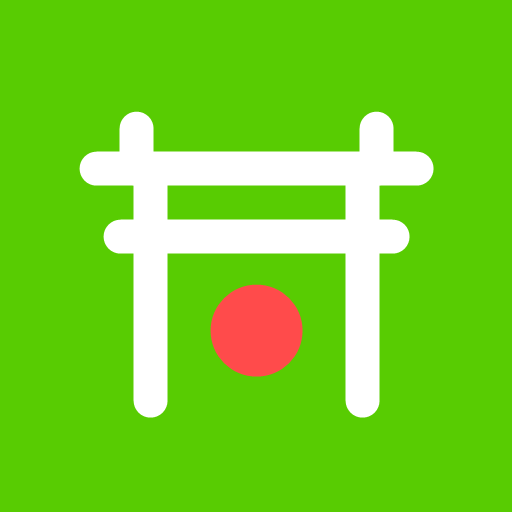
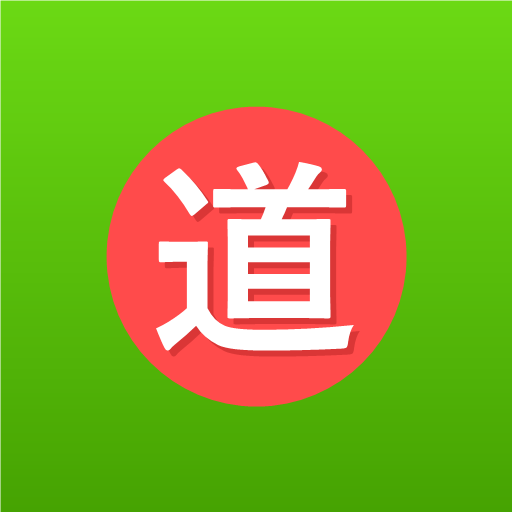
Ícone novo para iPad/iPhone e sincronização entre aparelhos via Gist do GitHub

diff --git a/js/app.js b/js/app.js
@@ -1,7 +1,7 @@
 // Michi 道 — app principal (sem dependências, funciona offline).
 (function () {
   'use strict';
-  const APP_VERSION = '1.2.0';
+  const APP_VERSION = '1.3.0';
   const $ = (s, r = document) => r.querySelector(s);
   const $$ = (s, r = document) => Array.from(r.querySelectorAll(s));
   const app = $('#app');
@@ -84,7 +84,7 @@
     S = Object.assign({}, JSON.parse(JSON.stringify(DEFAULT)), S || {});
     S.settings = Object.assign({}, DEFAULT.settings, S.settings || {});
   }
-  function save() { try { localStorage.setItem(STORE, JSON.stringify(S)); } catch (e) { toast('Não foi possível salvar o progresso neste navegador.'); } }
+  function save() { try { localStorage.setItem(STORE, JSON.stringify(S)); } catch (e) { toast('Não foi possível salvar o progresso neste navegador.'); } syncSoon(); }
 
   function addXP(n) {
     const t = todayKey(), y = todayKey(new Date(Date.now() - DAY));
@@ -97,10 +97,11 @@
   function srsData(it) { return [it.jp, it.kana, it.pt, it.em || '', it.isKana ? 1 : it.isKanji ? 2 : 0]; }
   function srsAdd(it, learned) {
     if (S.srs[it.key]) return;
-    S.srs[it.key] = { d: srsData(it), due: Date.now() + (learned ? DAY : 0), iv: learned ? 1 : 0, ef: 2.5, reps: learned ? 1 : 0, lapses: 0 };
+    S.srs[it.key] = { d: srsData(it), due: Date.now() + (learned ? DAY : 0), iv: learned ? 1 : 0, ef: 2.5, reps: learned ? 1 : 0, lapses: 0, t: Date.now() };
   }
   function srsGrade(key, ok) {
     const c = S.srs[key]; if (!c) return;
+    c.t = Date.now();
     if (ok) {
       c.reps++; c.iv = c.reps <= 1 ? 1 : c.reps === 2 ? 3 : Math.round(c.iv * c.ef);
       c.ef = Math.min(3, c.ef + 0.05); c.due = Date.now() + c.iv * DAY;
@@ -1100,6 +1101,7 @@
         <div class="setting"><span></span><button class="btn small blue" data-say="こんにちは。日本語の勉強、がんばりましょう！">🔊 Testar voz</button></div>
         ${jaVoices.length ? '' : `<div class="warn"><b>Nenhuma voz japonesa encontrada.</b> Para ouvir os áudios mesmo offline: <br>• <b>Windows</b>: Configurações → Hora e idioma → Fala → Adicionar vozes → Japonês.<br>• <b>Android</b>: Configurações → Idioma → Saída de texto para fala → Google → instalar dados de voz em japonês.<br>• <b>iPhone</b>: Ajustes → Acessibilidade → Conteúdo Falado → Vozes → Japonês.<br>No Chrome/Edge com internet, vozes online também funcionam.</div>`}
       </div>
+      ${syncCard()}
       <div class="card"><h3>💾 Seus dados</h3><p class="muted" style="margin-top:0">O progresso fica salvo neste aparelho e funciona offline. Faça backup para levar a outro celular/computador.</p>
         <div class="row"><button class="btn small" id="exp">Exportar backup</button><label class="btn small blue" style="cursor:pointer">Importar backup<input type="file" id="imp" accept=".json,application/json" hidden></label>
         <button class="btn small ghost" id="upd">Verificar atualização</button><button class="btn small ghost" id="inst" hidden>📲 Instalar app</button></div>
@@ -1120,7 +1122,8 @@
       f.text().then(t => { const d = JSON.parse(t); if (!d || typeof d.xp !== 'number' || !d.srs) throw 0; localStorage.setItem(STORE, JSON.stringify(d)); load(); applySettings(); updateTop(); toast('Backup importado!'); router(); })
         .catch(() => toast('Arquivo de backup inválido.'));
     };
-    $('#reset').onclick = () => { if (confirm('Apagar TODO o progresso? Isso não pode ser desfeito.') && confirm('Tem certeza? Exporte um backup antes, se quiser.')) { localStorage.removeItem(STORE); load(); save(); updateTop(); go('/'); location.reload(); } };
+    $('#reset').onclick = () => { if (confirm('Apagar TODO o progresso deste aparelho? Isso não pode ser desfeito.' + (sync ? ' Ele também será desconectado da sincronização (a cópia no GitHub continua lá).' : '')) && confirm('Tem certeza? Exporte um backup antes, se quiser.')) { syncOff(); localStorage.removeItem(STORE); load(); save(); updateTop(); go('/'); location.reload(); } };
+    bindSyncCard();
     $('#upd').onclick = checkUpdate;
     if (deferredInstall) { $('#inst').hidden = false; $('#inst').onclick = () => { deferredInstall.prompt(); deferredInstall = null; $('#inst').hidden = true; }; }
   });
@@ -1128,11 +1131,16 @@
   // ---------- Boas-vindas ----------
   function onboarding() {
     const starts = [['Do zero absoluto', 'Nunca estudei japonês', 0], ['Já sei hiragana e katakana', 'Começar pelos kanji e frases', LESSON.m0l8.index], ['Já tenho o básico (N5)', 'Começar pelo Módulo A2', LESSON.m2l1.index], ['Sou intermediário (N4)', 'Começar pelo Módulo B1', LESSON.m3l1.index]];
-    const el = document.createElement('div'); el.className = 'modal-back';
+    const el = document.createElement('div'); el.className = 'modal-back onb';
     el.innerHTML = `<div class="modal"><div class="center"><div style="font-size:60px">⛩</div><h2>ようこそ！ Bem-vindo(a) ao Michi</h2>
       <p class="muted">Seu caminho (道) do zero ao japonês avançado: fala, escuta, leitura e escrita. Tudo funciona offline e fica salvo no seu aparelho.</p></div>
-      <h3>Qual é o seu nível?</h3><div class="opt-list">${starts.map((s, i) => `<button class="list-link" data-s="${s[2]}"><span class="ic">${['🌱', 'あ', '🌸', '🎋'][i]}</span><span class="grow"><b>${s[0]}</b><small>${s[1]}</small></span></button>`).join('')}</div></div>`;
+      <h3>Qual é o seu nível?</h3><div class="opt-list">${starts.map((s, i) => `<button class="list-link" data-s="${s[2]}"><span class="ic">${['🌱', 'あ', '🌸', '🎋'][i]}</span><span class="grow"><b>${s[0]}</b><small>${s[1]}</small></span></button>`).join('')}
+      <button class="list-link" id="onb-sync"><span class="ic">🔄</span><span class="grow"><b>Já estudo em outro aparelho</b><small>Trazer meu progresso do PC/iPad</small></span></button></div></div>`;
     document.body.appendChild(el);
+    $('#onb-sync', el).onclick = e => {
+      e.stopPropagation(); el.remove(); go('/profile');
+      setTimeout(() => { const c = $('#sync-card'); if (c) { c.scrollIntoView({ behavior: 'smooth' }); const t = $('#sync-token'); if (t) t.focus({ preventScroll: true }); } }, 150);
+    };
     el.addEventListener('click', function pickStart(e) {
       const b = e.target.closest('[data-s]'); if (!b) return;
       el.removeEventListener('click', pickStart);
@@ -1178,8 +1186,137 @@
   window.addEventListener('online', () => toast('Conectado à internet.'));
   window.addEventListener('offline', () => toast('Modo offline: suas aulas continuam funcionando.'));
 
+  // ---------- Sincronização entre aparelhos (PC ⇄ iPad ⇄ celular) ----------
+  // O progresso vai para um Gist secreto na conta do GitHub do aluno. Cada aparelho guarda a última
+  // versão combinada (base) para saber o que mudou nele desde então e juntar sem perder nada.
+  const SYNC = 'michi.sync.v1', SYNC_FILE = 'michi-progresso.json', SYNC_DESC = 'Michi 道 — progresso (sincronização entre aparelhos)';
+  const LOCAL_KEYS = ['settings', 'noMicUntil']; // tema, voz e velocidade ficam em cada aparelho (as vozes do PC e do iPad são diferentes)
+  let sync = null, syncBase = null, syncBusy = false, syncDirty = false, syncTimer = 0;
+  try { sync = JSON.parse(localStorage.getItem(SYNC)); syncBase = JSON.parse(localStorage.getItem(SYNC + '.base')); } catch (e) {}
+  const same = (a, b) => JSON.stringify(a) === JSON.stringify(b);
+  function shared(s) { const o = Object.assign({}, s); LOCAL_KEYS.forEach(k => delete o[k]); return o; }
+  function saveSync() { try { if (sync) localStorage.setItem(SYNC, JSON.stringify(sync)); else localStorage.removeItem(SYNC); if (syncBase) localStorage.setItem(SYNC + '.base', JSON.stringify(syncBase)); else localStorage.removeItem(SYNC + '.base'); } catch (e) {} }
+  // Junta conquistas: o que foi concluído em qualquer aparelho continua concluído
+  function union(a, b) {
+    if (a == null) return b; if (b == null) return a;
+    if (typeof a === 'number' && typeof b === 'number') return Math.max(a, b);
+    if (typeof a !== 'object' || typeof b !== 'object' || Array.isArray(a) || Array.isArray(b)) return b || a;
+    const o = Object.assign({}, a); Object.keys(b).forEach(k => { o[k] = union(a[k], b[k]); }); return o;
+  }
+  function streakFrom(days, last) {
+    if (!last) return 0; let n = 0, d = new Date(last + 'T12:00:00');
+    while ((days[todayKey(d)] || 0) > 0) { n++; d = new Date(d.getTime() - DAY); }
+    return Math.max(n, 1);
+  }
+  function mergeState(L, R, B) {
+    R = Object.assign(JSON.parse(JSON.stringify(DEFAULT)), R);
+    const M = Object.assign({}, L, shared(R));
+    // XP e XP por dia: soma o que cada aparelho ganhou desde a última sincronização
+    const add = (l, r, b) => b == null ? Math.max(l || 0, r || 0) : (r || 0) + Math.max(0, (l || 0) - b);
+    M.xp = add(L.xp, R.xp, B && B.xp);
+    M.days = {};
+    Object.keys(Object.assign({}, L.days, R.days)).forEach(d => { M.days[d] = add(L.days[d], R.days[d], B ? (B.days || {})[d] || 0 : null); });
+    ['lessons', 'missions', 'culture', 'steps'].forEach(k => { M[k] = union(L[k], R[k]); });
+    // Revisões: vale a versão do cartão que mudou (ou a revisada por último)
+    M.srs = {};
+    const later = (l, r) => (l.t || 0) !== (r.t || 0) ? ((l.t || 0) > (r.t || 0) ? l : r) : (l.reps + l.lapses >= r.reps + r.lapses ? l : r);
+    Object.keys(Object.assign({}, L.srs, R.srs)).forEach(k => {
+      const l = L.srs[k], r = R.srs[k], b = B && B.srs && B.srs[k];
+      M.srs[k] = !l ? r : !r ? l : b && same(l, b) ? r : b && same(r, b) ? l : later(l, r);
+    });
+    const pick = k => B ? (same(L[k], B[k]) ? R[k] : L[k]) : (R.onboarded ? R[k] : L[k]);
+    M.goal = pick('goal'); M.startAt = pick('startAt');
+    M.onboarded = !!(L.onboarded || R.onboarded);
+    M.created = Math.min(L.created || Date.now(), R.created || Date.now());
+    M.lastDay = [L.lastDay, R.lastDay].filter(Boolean).sort().pop() || null;
+    M.streak = Math.max(streakFrom(M.days, M.lastDay), ...[L, R].filter(s => s.lastDay === M.lastDay).map(s => s.streak || 0));
+    return M;
+  }
+  async function ghApi(path, method, body) {
+    const r = await fetch('https://api.github.com' + path, { method: method || 'GET', cache: 'no-store', headers: { Authorization: 'Bearer ' + sync.token, Accept: 'application/vnd.github+json' }, body: body ? JSON.stringify(body) : undefined });
+    if (!r.ok) { const e = new Error('GitHub ' + r.status); e.status = r.status; throw e; }
+    return r.json();
+  }
+  function syncSoon() { if (!sync) return; syncDirty = true; clearTimeout(syncTimer); syncTimer = setTimeout(syncNow, 15000); }
+  async function syncNow(manual) {
+    if (!sync || syncBusy) return;
+    if (!navigator.onLine) { if (manual === true) toast('Sem internet: sincronizo quando a conexão voltar.'); return; }
+    if (document.body.classList.contains('in-session')) { syncSoon(); return; } // não mexe no progresso no meio de uma prática
+    syncBusy = true; syncDirty = false; clearTimeout(syncTimer);
+    const before = JSON.stringify(shared(S));
+    try {
+      if (!sync.gist) {
+        const list = await ghApi('/gists?per_page=100');
+        const found = list.find(g => g.files && g.files[SYNC_FILE]);
+        sync.gist = found ? found.id : (await ghApi('/gists', 'POST', { description: SYNC_DESC, public: false, files: { [SYNC_FILE]: { content: JSON.stringify(shared(S)) } } })).id;
+        saveSync();
+      }
+      const g = await ghApi('/gists/' + sync.gist), f = g.files && g.files[SYNC_FILE];
+      if (!sync) return;
+      const remote = f ? JSON.parse(f.truncated ? await (await fetch(f.raw_url, { cache: 'no-store' })).text() : f.content) : null;
+      if (remote) {
+        const M = mergeState(S, remote, syncBase);
+        Object.keys(M).forEach(k => { S[k] = M[k]; });
+        try { localStorage.setItem(STORE, JSON.stringify(S)); } catch (e) {}
+      }
+      const now = shared(S);
+      if (!remote || !same(now, remote)) await ghApi('/gists/' + sync.gist, 'PATCH', { files: { [SYNC_FILE]: { content: JSON.stringify(now) } } });
+      syncBase = JSON.parse(JSON.stringify(now)); sync.last = Date.now(); sync.err = ''; saveSync();
+      if (before !== JSON.stringify(shared(S))) {
+        updateTop(); const h = location.hash.slice(1) || '/';
+        if (['/', '/profile', '/review'].includes(h)) router();
+        if (S.onboarded) $$('.modal-back.onb').forEach(m => m.remove());
+      } else if (manual === true && location.hash === '#/profile') router();
+      if (manual === true) toast('Progresso sincronizado ✓');
+    } catch (e) {
+      if (!sync) return; // desconectado no meio do caminho
+      const err = e.status === 401 ? 'O código do GitHub não vale mais (expirou ou foi apagado). Gere outro e conecte de novo.'
+        : e.status === 403 || e.status === 404 && !sync.gist ? 'O código do GitHub precisa ter a opção “gist” marcada.' : 'Não consegui falar com o GitHub agora. Tento de novo mais tarde.';
+      if (e.status === 404 && sync.gist) { sync.gist = ''; syncBase = null; } // arquivo apagado no GitHub: recria na próxima vez
+      if (manual === true || (err !== sync.err && e.status)) toast('Sincronização: ' + err);
+      sync.err = err; saveSync();
+    } finally { syncBusy = false; if (syncDirty) syncSoon(); }
+  }
+  async function syncConnect(token) {
+    sync = { token: token.trim(), gist: '', last: 0, err: '' }; syncBase = null;
+    try { await ghApi('/user'); } catch (e) {
+      sync = null; toast(e.status === 401 ? 'Código inválido. Copie de novo o código que começa com ghp_.' : 'Não consegui falar com o GitHub. Verifique a internet.'); return;
+    }
+    saveSync(); await syncNow(true); router();
+  }
+  function syncOff() { sync = null; syncBase = null; saveSync(); }
+  function ago(t) { const m = Math.round((Date.now() - t) / 60000); return m < 1 ? 'agora há pouco' : m < 60 ? `há ${m} min` : m < 1440 ? `há ${Math.round(m / 60)} h` : `há ${Math.round(m / 1440)} dia(s)`; }
+  function deviceName() { const u = navigator.userAgent; return /iPad/.test(u) || (/Macintosh/.test(u) && navigator.maxTouchPoints > 1) ? 'iPad' : /iPhone/.test(u) ? 'iPhone' : /Android/.test(u) ? 'Android' : 'PC'; }
+  function syncCard() {
+    if (sync) return `<div class="card" id="sync-card"><h3>🔄 Sincronizar aparelhos</h3>
+      <p style="margin-top:0">✅ Conectado. ${sync.last ? `Última sincronização: <b>${ago(sync.last)}</b>.` : 'Sincronizando…'}</p>${sync.err ? `<div class="warn">${esc(sync.err)}</div>` : ''}
+      <p class="muted">Aulas, XP, revisões e sequência de dias se juntam sozinhos entre os aparelhos conectados sempre que você abre o app ou estuda com internet. Tema, voz e velocidade ficam separados em cada aparelho.</p>
+      <div class="row"><button class="btn small" id="sync-now">Sincronizar agora</button><button class="btn small ghost" id="sync-off">Desconectar este aparelho</button></div></div>`;
+    const note = encodeURIComponent(`Michi ${deviceName()} ${todayKey()} ${new Date().toTimeString().slice(0, 5)}`);
+    return `<div class="card" id="sync-card"><h3>🔄 Sincronizar aparelhos (PC ⇄ iPad)</h3>
+      <p class="muted" style="margin-top:0">Para estudar no PC, no iPad e no celular com o mesmo progresso. Ele fica guardado num arquivo secreto na sua conta do GitHub, de graça. Faça isto uma vez em cada aparelho:</p>
+      <ol class="sync-steps"><li>Abra <a href="https://github.com/settings/tokens/new?scopes=gist&amp;description=${note}" target="_blank" rel="noopener">esta página do GitHub</a> e entre na sua conta.</li>
+      <li>Em <b>Expiration</b>, escolha <b>No expiration</b>. Deixe marcada só a opção <b>gist</b> (ela já vem marcada) e toque em <b>Generate token</b>, no fim da página.</li>
+      <li>Copie o código que aparece (começa com <code>ghp_</code>), volte aqui, cole abaixo e toque em <b>Conectar</b>.</li></ol>
+      <div class="sync-row"><input id="sync-token" class="search" type="password" autocomplete="off" autocapitalize="off" spellcheck="false" placeholder="Cole aqui o código ghp_…"><button class="btn small" id="sync-on">Conectar</button></div>
+      <p class="muted" style="margin-bottom:0;font-size:13px">O código só dá acesso aos seus Gists (anotações do GitHub), não ao resto da conta, e fica guardado apenas neste aparelho. No outro aparelho, gere um código do mesmo jeito: o Michi encontra o mesmo progresso sozinho.</p></div>`;
+  }
+  function bindSyncCard() {
+    const on = $('#sync-on'), now = $('#sync-now'), off = $('#sync-off');
+    if (on) on.onclick = () => { const t = $('#sync-token').value.trim(); if (!/^(ghp_|github_pat_)\w{20,}$/.test(t)) { toast('Cole o código inteiro (começa com ghp_).'); return; } on.disabled = true; on.textContent = 'Conectando…'; syncConnect(t).finally(() => { if (on.isConnected) { on.disabled = false; on.textContent = 'Conectar'; } }); };
+    if (now) now.onclick = () => { now.disabled = true; now.textContent = 'Sincronizando…'; syncNow(true).finally(() => { if (now.isConnected) router(); }); };
+    if (off) off.onclick = () => { if (confirm('Desconectar este aparelho? O progresso continua salvo aqui e na sua conta do GitHub.')) { syncOff(); toast('Aparelho desconectado.'); router(); } };
+  }
+  document.addEventListener('visibilitychange', () => {
+    if (!sync) return;
+    if (document.visibilityState === 'hidden') { if (syncDirty) syncNow(); }
+    else if (syncDirty || Date.now() - (sync.last || 0) > 30000) syncNow(); // voltou ao app: puxa o que foi feito no outro aparelho
+  });
+  window.addEventListener('online', () => syncNow());
+
   // ---------- Início ----------
   load(); applySettings(); updateTop();
   router();
   if (!S.onboarded) onboarding();
+  if (sync) syncNow();
 })();

diff --git a/index.html b/index.html
@@ -7,9 +7,14 @@
   <meta name="description" content="Curso completo e gratuito de japonês do zero ao avançado, com prática de fala, escrita, leitura e escuta. Funciona offline.">
   <meta name="theme-color" content="#58cc02">
   <link rel="manifest" href="manifest.webmanifest">
-  <link rel="icon" href="icons/icon.svg" type="image/svg+xml">
-  <link rel="apple-touch-icon" href="icons/icon-192.png">
+  <link rel="icon" href="icons/favicon-32.png" type="image/png" sizes="32x32">
+  <link rel="apple-touch-icon" href="icons/apple-touch-icon.png">
+  <link rel="apple-touch-icon" sizes="152x152" href="icons/icon-152.png">
+  <link rel="apple-touch-icon" sizes="167x167" href="icons/icon-167.png">
+  <link rel="apple-touch-icon" sizes="180x180" href="icons/apple-touch-icon.png">
   <meta name="apple-mobile-web-app-capable" content="yes">
+  <meta name="mobile-web-app-capable" content="yes">
+  <meta name="apple-mobile-web-app-status-bar-style" content="default">
   <meta name="apple-mobile-web-app-title" content="Michi">
   <link rel="stylesheet" href="css/style.css">
 </head>

diff --git a/sw.js b/sw.js
@@ -1,13 +1,13 @@
 // Service Worker: deixa o Michi 100% offline e aplica atualizações sozinho quando você publica uma versão nova.
 // Para lançar uma atualização: altere VERSION (e APP_VERSION em js/app.js) e publique os arquivos.
-const VERSION = 'michi-v1.2.0';
+const VERSION = 'michi-v1.3.0';
 const FILES = [
   './', 'index.html', 'manifest.webmanifest', 'css/style.css',
   'js/romaji.js', 'js/kana-data.js', 'js/course-m0.js', 'js/course-m1.js', 'js/course-m2.js',
   'js/course-m3.js', 'js/course-m4.js', 'js/course-m5.js', 'js/fundamentos.js',
   'js/extra-kanji.js', 'js/extra-vocab.js', 'js/extra-situ.js', 'js/extra-stories.js', 'js/culture.js',
   'js/videos.js', 'js/library.js', 'js/app.js',
-  'icons/icon.svg', 'icons/icon-192.png', 'icons/icon-512.png'
+  'icons/favicon-32.png', 'icons/apple-touch-icon.png', 'icons/icon-192.png', 'icons/icon-512.png', 'icons/icon-maskable.png'
 ];
 
 self.addEventListener('install', e => {

diff --git a/css/style.css b/css/style.css
@@ -354,3 +354,11 @@ textarea.wput { display: block; width: 100%; max-width: none; margin-top: 6px; f
   .choice { font-size: 16px; padding: 12px; }
   .choices.two { grid-template-columns: 1fr; }
 }
+
+/* Sincronização entre aparelhos */
+.sync-steps { padding-left: 22px; margin: 8px 0 12px; line-height: 1.5; }
+.sync-steps li { margin-bottom: 6px; }
+.sync-steps code { background: var(--bg2); padding: 1px 5px; border-radius: 6px; }
+.sync-row { display: flex; gap: 8px; align-items: center; }
+.sync-row .search { margin: 0; flex: 1; min-width: 0; }
+.sync-row .btn { flex: none; }

diff --git a/README.md b/README.md
@@ -21,6 +21,8 @@ Plataforma gratuita que funciona como um **professor particular**: leva alguém 
 
 **Pela internet (recomendado):** abra o link do GitHub Pages no celular ou no computador. No celular, use "Adicionar à tela inicial" (ou o botão *Instalar app* no Perfil). Depois da primeira abertura, tudo funciona sem internet.
 
+**Vários aparelhos (PC, iPad, celular):** em *Perfil → Sincronizar aparelhos*, cole um código do GitHub com permissão só de *gist* (o app mostra o passo a passo e o link). O progresso fica num Gist secreto da sua conta e se junta sozinho entre os aparelhos sempre que o app é aberto ou usado com internet. Tema, voz e velocidade continuam separados em cada aparelho.
+
 **No computador, sem internet:** clique com o botão direito em `iniciar-local.ps1` → *Executar com o PowerShell*. O app abre em `http://localhost:8787`.
 
 ### Voz japonesa
